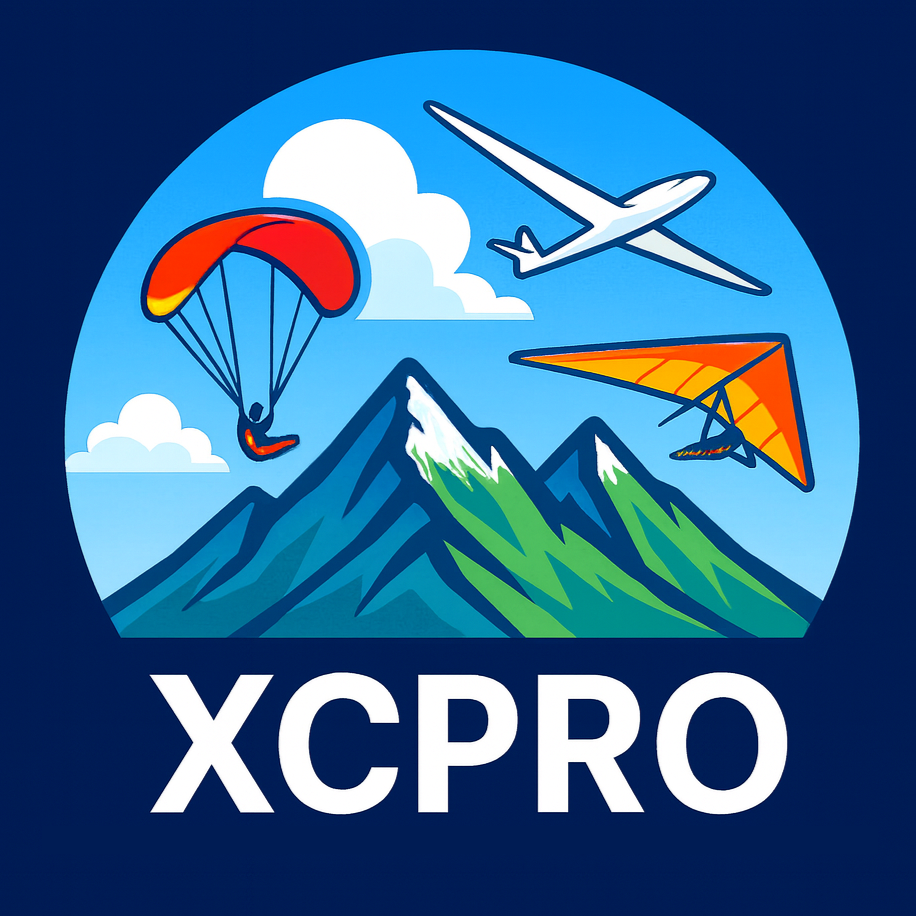
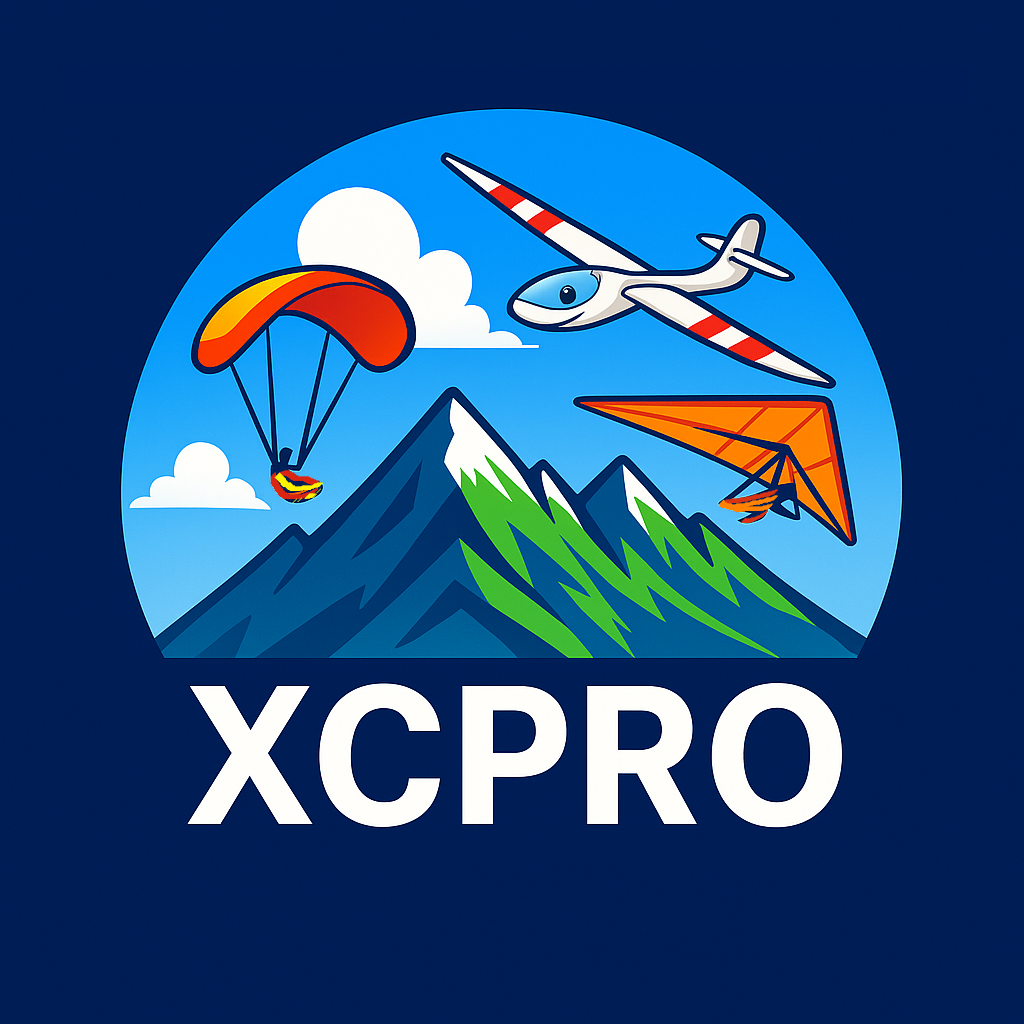
Refresh splash and launcher assets

diff --git a/scripts/update_brand_assets.py b/scripts/update_brand_assets.py
@@ -1,0 +1,111 @@
+#!/usr/bin/env python3
+"""
+Regenerate XCPro launcher and splash assets from the canonical XCPROICON.png.
+
+Usage:
+    python scripts/update_brand_assets.py
+"""
+
+from __future__ import annotations
+
+from pathlib import Path
+from typing import Tuple
+
+from PIL import Image, ImageDraw
+
+ROOT = Path(__file__).resolve().parents[1]
+SOURCE = ROOT / "XCPROICON.png"
+ICON_ZOOM_FACTOR = 1.12  # 12% zoom-in per request
+
+# Output targets: destination path -> pixel size (square)
+DRAWABLE_TARGETS = {
+    ROOT / "XCPROLOGO.png": 1024,
+    ROOT / "XCProWhite.png": 1024,
+    ROOT / "app/src/main/res/drawable/xcpro_logo.png": 432,
+    ROOT / "app/src/main/res/drawable/xcpro_logo_white.png": 432,
+}
+
+# (subdir, size, margin_px)
+MIPMAP_SPECS: Tuple[Tuple[str, int, int], ...] = (
+    ("mipmap-mdpi", 48, 4),
+    ("mipmap-hdpi", 72, 6),
+    ("mipmap-xhdpi", 96, 8),
+    ("mipmap-xxhdpi", 144, 12),
+    ("mipmap-xxxhdpi", 192, 15),
+)
+
+BRAND_BACKGROUND = (1, 56, 117, 255)  # Matches ic_launcher_background.xml
+
+
+def _ensure_square(img: Image.Image) -> Image.Image:
+    if img.width == img.height:
+        return img
+    side = min(img.width, img.height)
+    left = (img.width - side) // 2
+    top = (img.height - side) // 2
+    return img.crop((left, top, left + side, top + side))
+
+
+def _save_png(image: Image.Image, destination: Path) -> None:
+    destination.parent.mkdir(parents=True, exist_ok=True)
+    image.save(destination, format="PNG", optimize=True)
+
+
+def _zoom_image(img: Image.Image, factor: float) -> Image.Image:
+    if factor <= 1.0:
+        return img
+    width, height = img.size
+    new_width = max(1, int(round(width / factor)))
+    new_height = max(1, int(round(height / factor)))
+    left = max(0, (width - new_width) // 2)
+    top = max(0, (height - new_height) // 2)
+    return img.crop((left, top, left + new_width, top + new_height))
+
+
+def _render_launcher_square(base: Image.Image, size: int, margin: int) -> Image.Image:
+    canvas = Image.new("RGBA", (size, size), BRAND_BACKGROUND)
+    art_size = max(size - 2 * margin, 1)
+    art = base.resize((art_size, art_size), Image.Resampling.LANCZOS)
+    canvas.alpha_composite(art, (margin, margin))
+    return canvas
+
+
+def _render_launcher_round(base: Image.Image, size: int, margin: int) -> Image.Image:
+    square = _render_launcher_square(base, size, margin)
+    mask = Image.new("L", (size, size), 0)
+    ImageDraw.Draw(mask).ellipse((0, 0, size - 1, size - 1), fill=255)
+    rounded = Image.new("RGBA", (size, size), (0, 0, 0, 0))
+    rounded.paste(square, (0, 0), mask)
+    return rounded
+
+
+def _update_drawables(base: Image.Image) -> None:
+    for destination, size in DRAWABLE_TARGETS.items():
+        resized = base.resize((size, size), Image.Resampling.LANCZOS)
+        _save_png(resized, destination)
+
+
+def _update_mipmaps(base: Image.Image) -> None:
+    res_root = ROOT / "app/src/main/res"
+    for subdir, size, margin in MIPMAP_SPECS:
+        square = _render_launcher_square(base, size, margin)
+        _save_png(square, res_root / subdir / "ic_launcher.png")
+        rounded = _render_launcher_round(base, size, margin)
+        _save_png(rounded, res_root / subdir / "ic_launcher_round.png")
+
+
+def main() -> None:
+    if not SOURCE.exists():
+        raise SystemExit(f"Missing source asset: {SOURCE}")
+
+    base = Image.open(SOURCE).convert("RGBA")
+    base = _ensure_square(base)
+    base = _zoom_image(base, ICON_ZOOM_FACTOR)
+
+    _update_drawables(base)
+    _update_mipmaps(base)
+    print("Brand assets refreshed.")
+
+
+if __name__ == "__main__":
+    main()

diff --git a/docs/04_Reference/Quick_Reference.md b/docs/04_Reference/Quick_Reference.md
@@ -118,6 +118,17 @@ adb logcat -s "SkysightClient" "SkysightApi" -v time
 adb shell dumpsys package com.example.xcpro.debug | grep -A 20 "permissions:"
 ```
 
+### Brand Assets Refresh
+```bash
+# 1. Update XCPROICON.png with the new artwork (1024x1024 square).
+# 2. Regenerate every launcher + splash asset in one go.
+python scripts/update_brand_assets.py
+
+# Outputs: XCPROLOGO.png, XCProWhite.png, drawable/xcpro_logo*.png,
+# and all mipmap ic_launcher*.png densities. The script applies the
+# current zoom factor (12%) so splash + launcher art stay consistent.
+```
+
 ### Git Workflow
 ```bash
 # Check task separation (should return ZERO)
